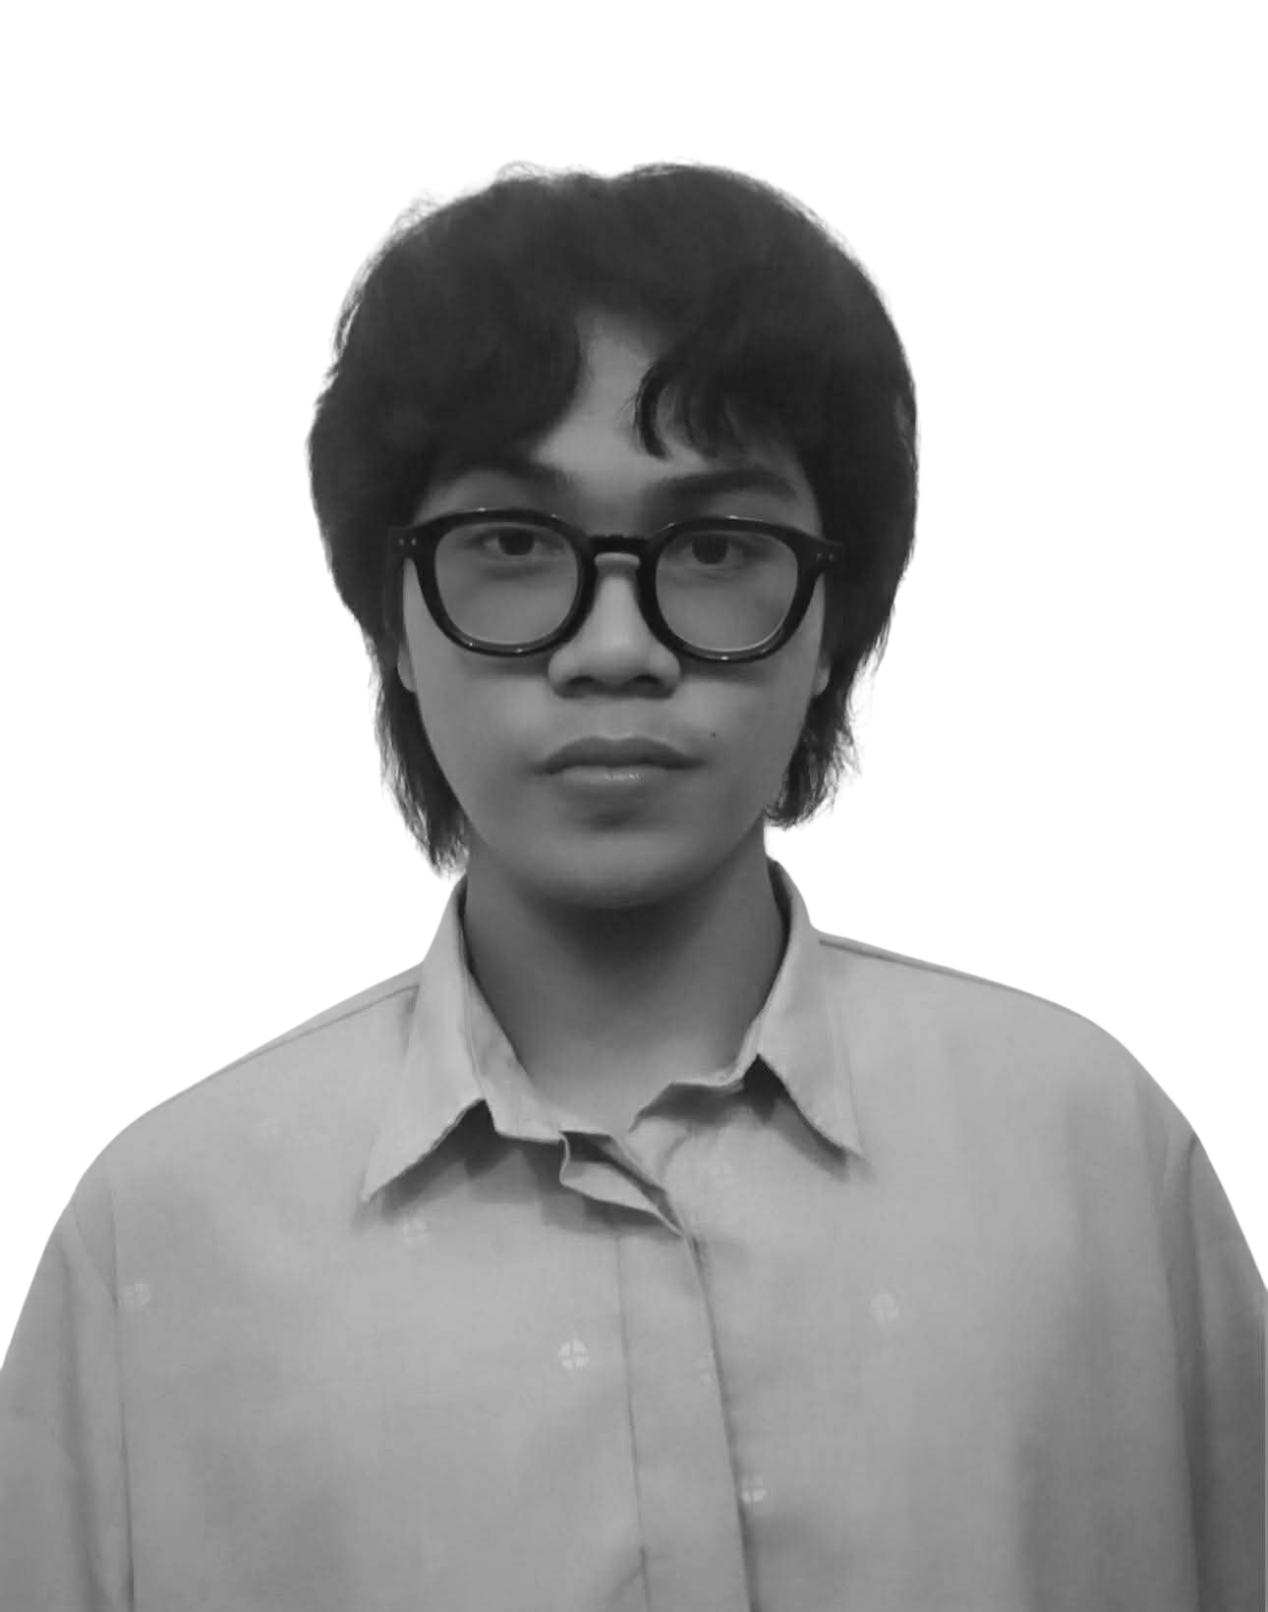
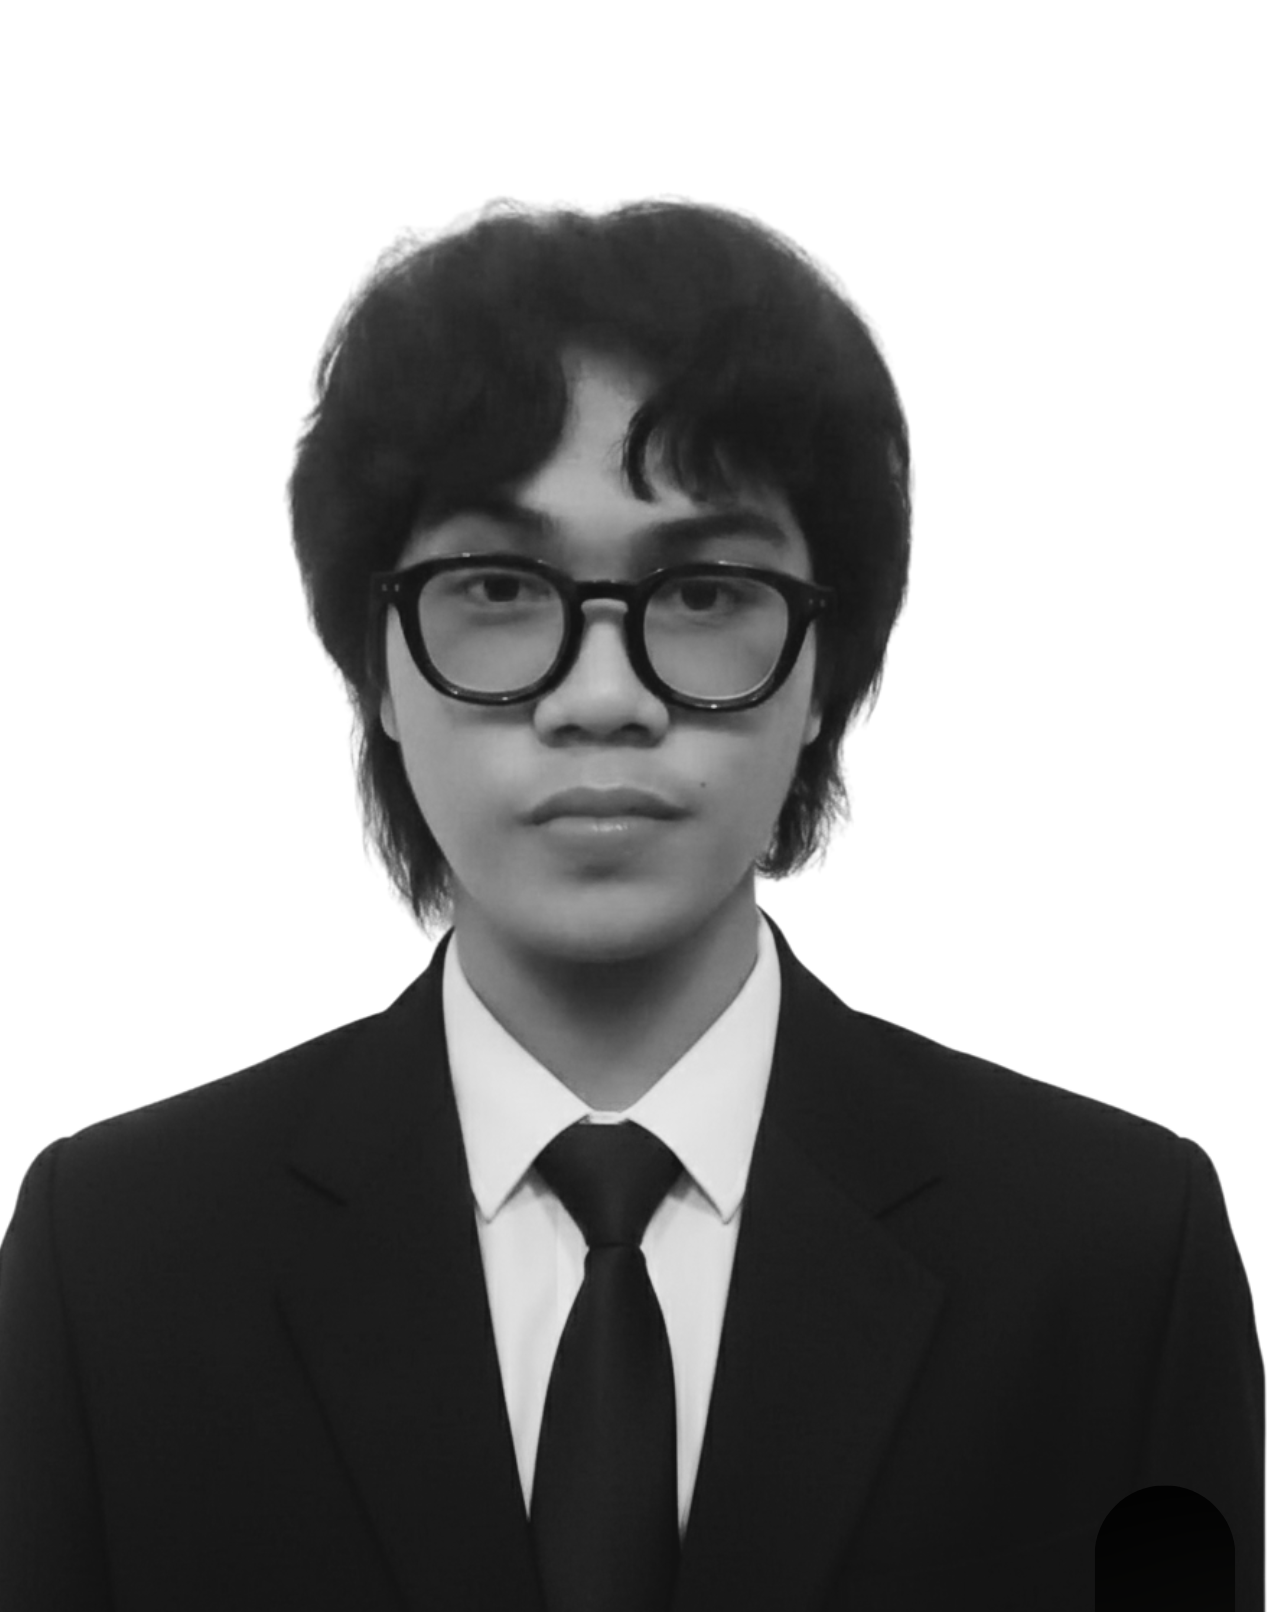
completed members

diff --git a/app/page.tsx b/app/page.tsx
@@ -10,6 +10,10 @@ import james from "@/public/james.png"
 import ynah from "@/public/ynah.png"
 import christian from "@/public/christian.jpg"
 import charles from "@/public/charles.png"
+import xander from "@/public/xander.png"
+import daryl from "@/public/daryl.png"
+import ronnie from "@/public/ronnie.png"
+import cj from "@/public/cj.png"
 
 import {
   ChartContainer,
@@ -189,25 +193,25 @@ export default function Home() {
     {
       name: "Xander Castro",
       role: "Researcher",
-      img: "https://images.unsplash.com/photo-1534528741775-53994a69daeb?w=400&h=300&fit=crop&crop=face",
+      img: xander.src,
       selfCare: "Fitness & volunteering",
     },
     {
       name: "Daryl Narvasa",
       role: "Researcher",
-      img: "https://images.unsplash.com/photo-1507003211169-0a1dd7228f2d?w=400&h=300&fit=crop&crop=face",
+      img: daryl.src,
       selfCare: "Journaling & cooking",
     },
     {
       name: "CJ Llarenas",
       role: "Researcher",
-      img: "https://images.unsplash.com/photo-1507591064344-4c6ce005b128?w=400&h=300&fit=crop&crop=face",
+      img: cj.src,
       selfCare: "Weekend pottery classes",
     },
     {
       name: "Ronnie Rullan",
       role: "Data Researcher",
-      img: "https://images.unsplash.com/photo-1534528741775-53994a69daeb?w=400&h=300&fit=crop&crop=face",
+      img: ronnie.src,
       selfCare: "Writing short stories",
     },
     {
@@ -281,10 +285,11 @@ export default function Home() {
 
   const leadMember = teamMembers[0]
   const restMembers = teamMembers.slice(1)
-  const groupedMembers = []
-  for (let i = 0; i < restMembers.length; i += 3) {
-    groupedMembers.push(restMembers.slice(i, i + 3))
-  }
+  // Layout: 1, 3, 3, 2
+  const row1 = [leadMember] // 1 card (centered)
+  const row2 = restMembers.slice(0, 3) // 3 cards
+  const row3 = restMembers.slice(3, 6) // 3 cards
+  const row4 = restMembers.slice(6, 8) // 2 cards (centered)
 
   const interactiveCardClasses =
     "group relative bg-white/5 backdrop-blur-xl border border-white/10 rounded-2xl p-6 transition-all duration-300 ease-out hover:-translate-y-1 hover:scale-[1.01] hover:border-white/30 hover:bg-white/10 hover:shadow-[0_20px_45px_rgba(0,0,0,0.35)]"
@@ -743,23 +748,45 @@ export default function Home() {
           </div>
 
           <div className="my-16 space-y-12">
-            {leadMember && (
+            {/* Row 1: 1 card (centered) */}
+            {row1.length > 0 && (
               <div className="grid grid-cols-1 md:grid-cols-3 gap-6 justify-items-center">
                 <div className="hidden md:block" />
                 <div className="w-full max-w-sm md:max-w-none">
-                  <TeamCard {...leadMember} />
+                  <TeamCard {...row1[0]} />
                 </div>
                 <div className="hidden md:block" />
               </div>
             )}
 
-            {groupedMembers.map((row, idx) => (
-              <div key={idx} className="grid grid-cols-1 md:grid-cols-3 gap-6 justify-items-center">
-                {row.map((member) => (
+            {/* Row 2: 3 cards */}
+            {row2.length > 0 && (
+              <div className="grid grid-cols-1 md:grid-cols-3 gap-6 justify-items-center">
+                {row2.map((member) => (
                   <TeamCard key={member.name} {...member} />
                 ))}
               </div>
-            ))}
+            )}
+
+            {/* Row 3: 3 cards */}
+            {row3.length > 0 && (
+              <div className="grid grid-cols-1 md:grid-cols-3 gap-6 justify-items-center">
+                {row3.map((member) => (
+                  <TeamCard key={member.name} {...member} />
+                ))}
+              </div>
+            )}
+
+            {/* Row 4: 2 cards (centered) */}
+            {row4.length > 0 && (
+              <div className="flex justify-center items-center gap-6 flex-wrap">
+                {row4.map((member) => (
+                  <div key={member.name} className="w-full max-w-sm">
+                    <TeamCard {...member} />
+                  </div>
+                ))}
+              </div>
+            )}
           </div>
         </div>
       </motion.section>
